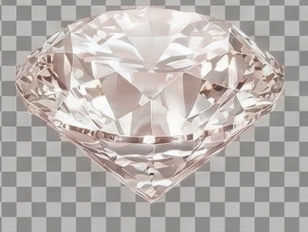
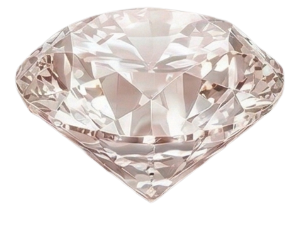
revisi

diff --git a/index.html b/index.html
@@ -1,18 +1,18 @@
 <!doctype html>
 <html lang="en">
-  <head>
-    <meta charset="UTF-8" />
-    <link
-      rel="icon"
-      type="image/svg+xml"
-      href="https://raw.githubusercontent.com/lucide-react/lucide/main/icons/user.svg"
-    />
-    <meta name="viewport" content="width=device-width, initial-scale=1.0" />
-    <link rel="manifest" href="./manifest.json" />
-    <title>Porto Syava</title>
-  </head>
-  <body>
-    <div id="root"></div>
-    <script type="module" src="./src/main.jsx"></script>
-  </body>
+
+<head>
+  <meta charset="UTF-8" />
+  <link rel="icon" type="image/svg+xml"
+    href="https://raw.githubusercontent.com/lucide-react/lucide/main/icons/user.svg" />
+  <meta name="viewport" content="width=device-width, initial-scale=1.0" />
+  <link rel="manifest" href="./manifest.json" />
+  <title>Porto Syava</title>
+</head>
+
+<body>
+  <div id="root"></div>
+  <script type="module" src="./src/main.jsx"></script>
+</body>
+
 </html>

diff --git a/src/components/portfolio/AboutSection.jsx b/src/components/portfolio/AboutSection.jsx
@@ -72,7 +72,7 @@ export default function AboutSection() {
       {/* Decorative Diamonds */}
       <DecorativeDiamond
         type={1}
-        className="top-[10%] left-[5%] w-32 h-32 lg:w-48 lg:h-48"
+        className="top-[5%] left-[5%] w-20 h-20 lg:w-28 lg:h-28"
         yRange={25}
         rotateRange={15}
       />

diff --git a/src/components/portfolio/ContactSection.jsx b/src/components/portfolio/ContactSection.jsx
@@ -94,7 +94,7 @@ export default function ContactSection() {
       {/* Decorative Diamonds */}
       <DecorativeDiamond
         type={1}
-        className="top-[10%] left-[8%]"
+        className="top-[10%] left-[8%] w-20 h-20 lg:w-28 lg:h-28"
         yRange={12}
         rotateRange={15}
       />
